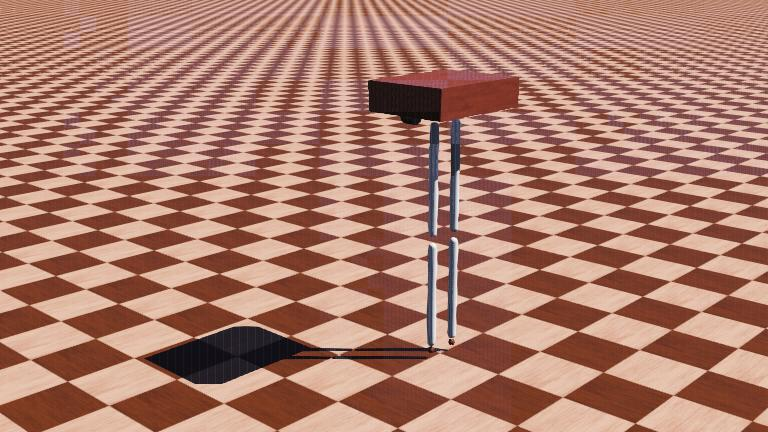
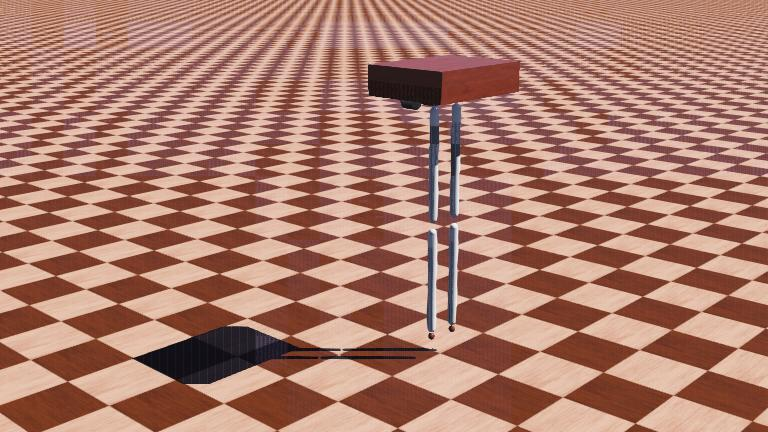
fix rpy rotation

diff --git a/controllers/Biped_Controller/Biped_Controller.c b/controllers/Biped_Controller/Biped_Controller.c
@@ -14,6 +14,7 @@
 #include <webots/motor.h>
 
 #include "webots_interface.h"
+#include "controller.h"
 
 /*
  * You may want to add macros here.
@@ -43,7 +44,7 @@ int main(int argc, char **argv)
      *  WbDeviceTag my_actuator = wb_robot_get_device("my_actuator");
      */
     webots_device_init();
-    //robot_init();
+    robot_init();
 
     /* main loop
      * Perform simulation steps of TIME_STEP milliseconds
@@ -51,17 +52,17 @@ int main(int argc, char **argv)
      */
     while (wb_robot_step(TIME_STEP) != -1)
     {
-        //updateRobotState();
+        updateRobotState();
 
         wb_motor_set_position(L0_motor, 0.0);
         wb_motor_set_position(L1_motor, +60.0 * PI / 180.0);
-        wb_motor_set_position(L2_motor, -120.0 * PI / 180.0);
+        wb_motor_set_position(L2_motor, -60.0 * PI / 180.0);
 
         wb_motor_set_position(R0_motor, 0.0);
         wb_motor_set_position(R1_motor, +60.0 * PI / 180.0);
-        wb_motor_set_position(R2_motor, -120.0 * PI / 180.0);
+        wb_motor_set_position(R2_motor, -60.0 * PI / 180.0);
 
-        //robot_control();
+        // robot_control();
     };
 
     /* Enter your cleanup code here */

diff --git a/controllers/biped_hopping/biped_hopping.py b/controllers/biped_hopping/biped_hopping.py
@@ -1,0 +1,33 @@
+"""biped_hopping controller."""
+
+# You may need to import some classes of the controller module. Ex:
+#  from controller import Robot, Motor, DistanceSensor
+from controller import Robot
+
+# create the Robot instance.
+robot = Robot()
+robot
+
+# get the time step of the current world.
+timestep = int(robot.getBasicTimeStep())
+
+# You should insert a getDevice-like function in order to get the
+# instance of a device of the robot. Something like:
+#  motor = robot.getDevice('motorname')
+#  ds = robot.getDevice('dsname')
+#  ds.enable(timestep)
+
+# Main loop:
+# - perform simulation steps until Webots is stopping the controller
+while robot.step(timestep) != -1:
+    # Read the sensors:
+    # Enter here functions to read sensor data, like:
+    #  val = ds.getValue()
+
+    # Process sensor data here.
+
+    # Enter here functions to send actuator commands, like:
+    #  motor.setPosition(10.0)
+    pass
+
+# Enter here exit cleanup code.

diff --git a/controllers/Biped_Controller/easy_mat.c b/controllers/Biped_Controller/easy_mat.c
@@ -239,22 +239,16 @@ void easyMat_RPY(matTypeDef *outRot, double roll, double pitch, double yaw)
     easyMat_create(&temp, 3, 3);
 
     easyMat_rotX(&RotX, roll);
-    easyMat_rotY(&RotY, yaw);
-    easyMat_rotZ(&RotZ, pitch);
+    easyMat_rotY(&RotY, pitch);
+    easyMat_rotZ(&RotZ, yaw);
 
-    easyMat_mult(&temp, &RotZ, &RotX);
-    easyMat_mult(outRot, &RotY, &temp);
+    //easyMat_mult(&temp, &RotZ, &RotY);
+    //easyMat_mult(outRot, &RotX, &temp);
+    easyMat_mult(&temp, &RotZ, &RotY);
+    easyMat_mult(outRot, &temp, &RotX);
 
     easyMat_free(&RotX);
     easyMat_free(&RotY);
     easyMat_free(&RotZ);
     easyMat_free(&temp);
-}
-/*
-矩阵求逆
-dstMat = srcMat^(-1)
-*/
-void easyMat_inv(matTypeDef *dstMat, matTypeDef *srcMat)
-{
-    // code
 }

diff --git a/controllers/Biped_Controller/controller.c b/controllers/Biped_Controller/controller.c
@@ -57,7 +57,7 @@ void robot_init()
     robot.m0 = 4;                 //大腿连杆质量
     robot.m1 = 4;                 //小腿连杆质量
     robot.M = 58;                 //总质量
-                                  //------------------------------------------------------------------------状态区
+    //------------------------------------------------------------------------状态区
     robot.t = 0;                  //从一步开始，经过的时间
     robot.st = L;                 //支撑腿
     robot.sw = R;                 //摆动腿

diff --git a/controllers/Biped_Controller/webots_interface.h b/controllers/Biped_Controller/webots_interface.h
@@ -45,6 +45,7 @@ typedef enum
 ==============================
 5,暂不考虑上述两个坐标系因相乘顺序而引起的误差。
 */
+
 typedef struct
 {
     double roll;  //横滚，x轴
